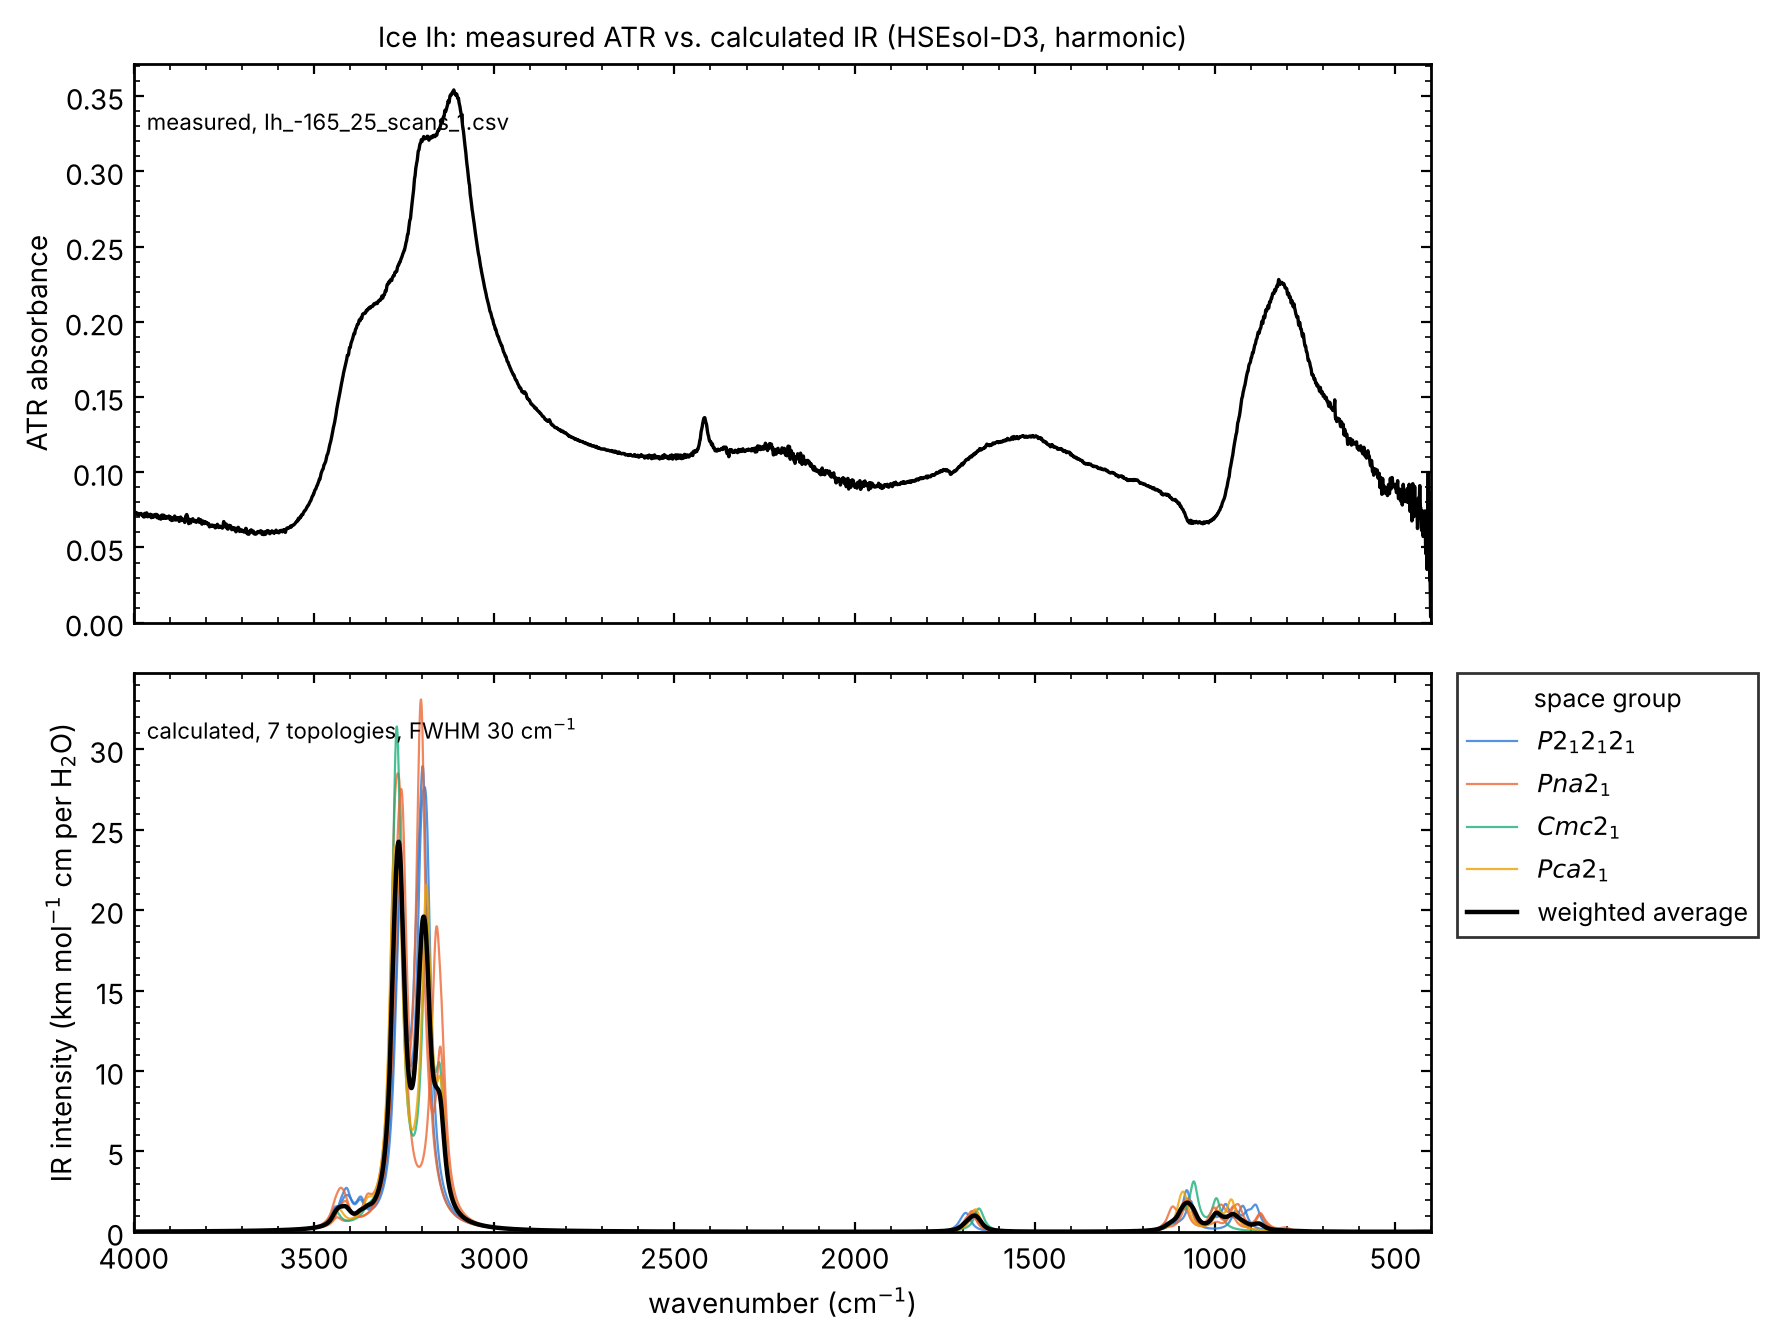
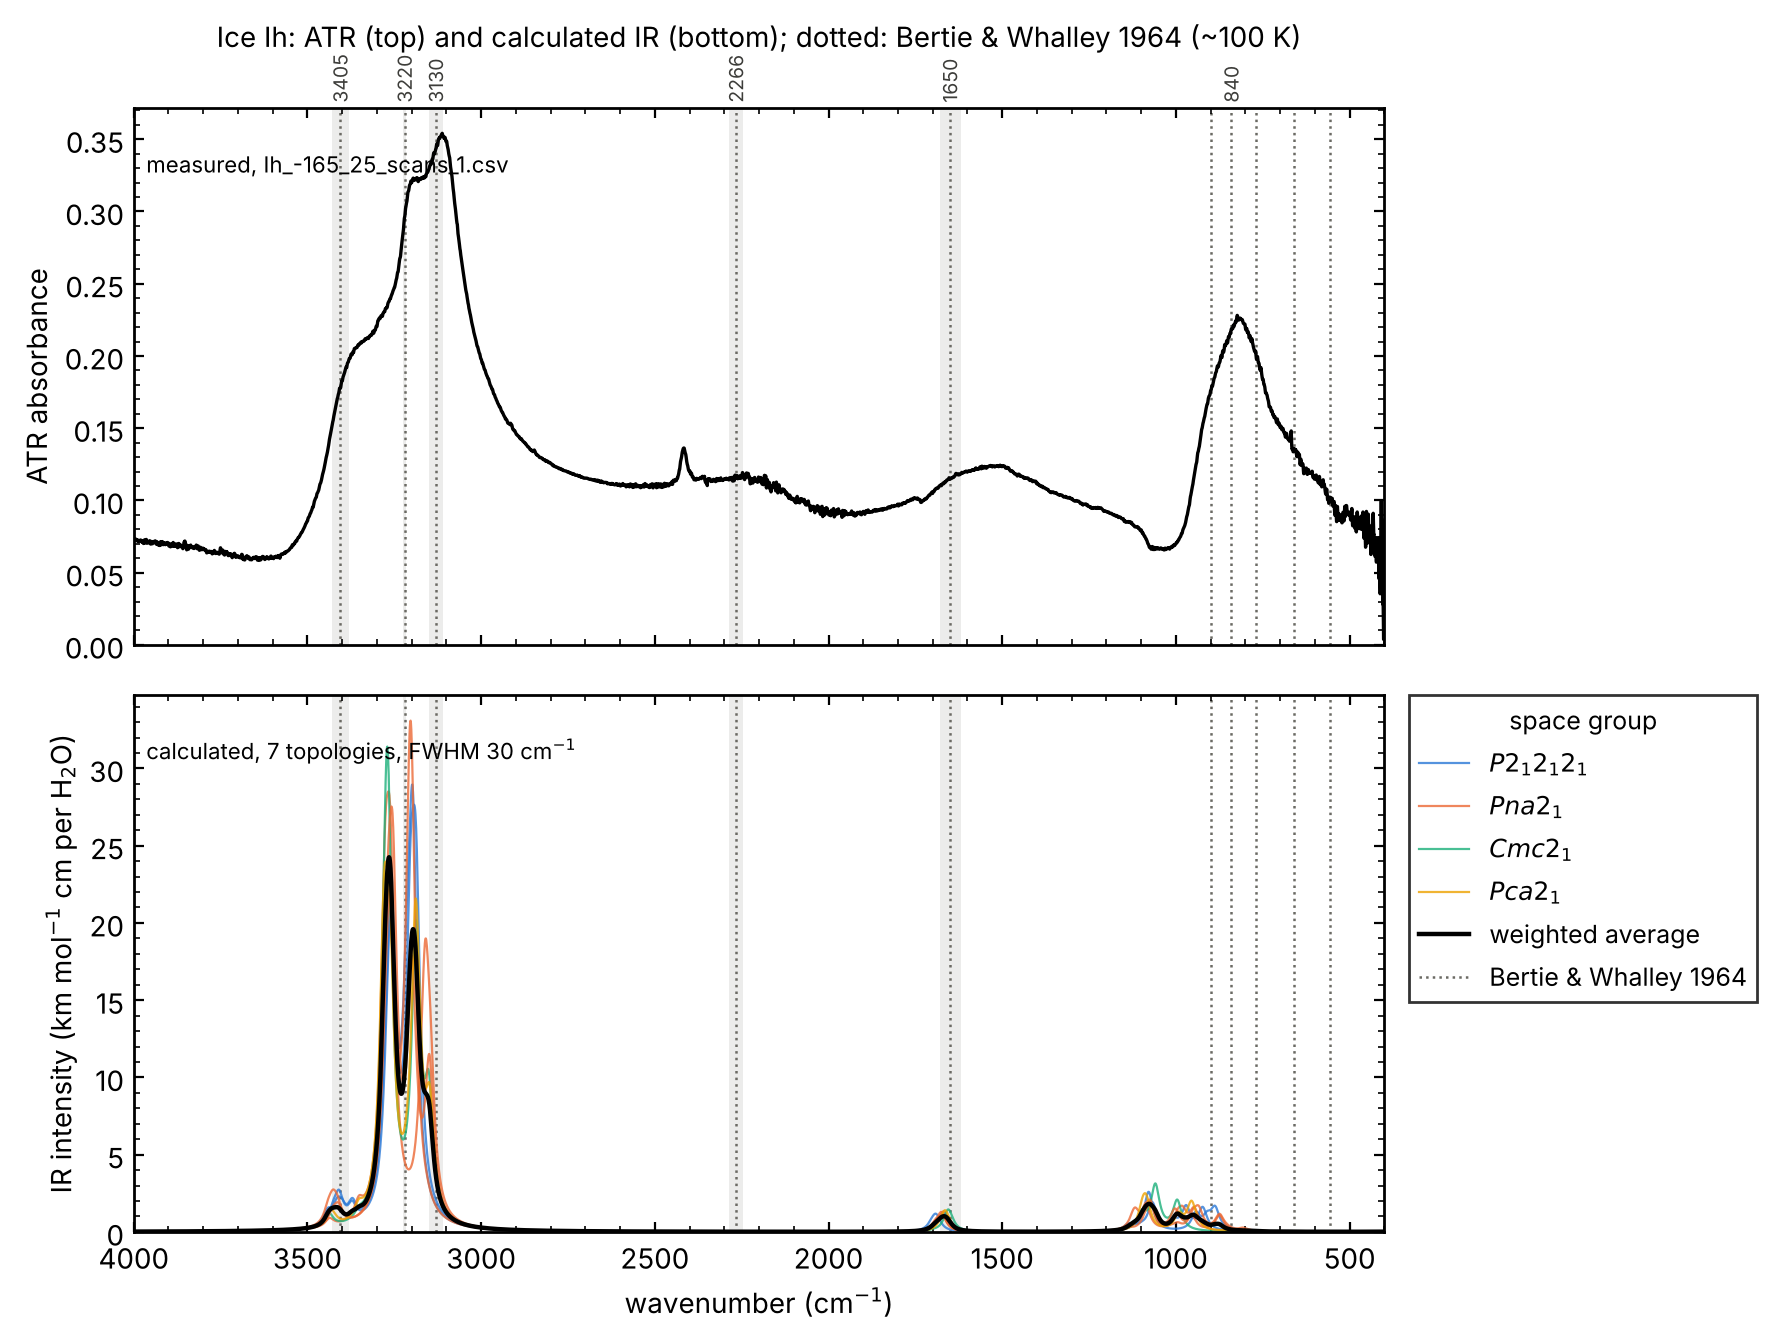
Ice Ih IR: compare calculated spectra with Bertie & Whalley (1964)
Add the Table I band list of Bertie & Whalley (H2O ice Ih, ~100 K) as a
reference file; analyze_spectra.py gains --ref, marks the reference bands
in the plot and writes comparison_reference.csv.

Claude-Session: https://claude.ai/code/session_01QbcnTQUCxwPyhZ4gjeExDE

diff --git a/graph_enumeration/analyze_spectra.py b/graph_enumeration/analyze_spectra.py
@@ -86,6 +86,49 @@ def read_atr(path):
     return x[o], y[o]
 
 
+def read_ref(path):
+    rows = []
+    for line in open(path):
+        if line.startswith("#") or line.startswith("wavenumber") or not line.strip():
+            continue
+        w, lo, hi, inten, assign, label = [x.strip() for x in line.split(",", 5)]
+        rows.append({"wavenumber": float(w), "low": float(lo), "high": float(hi),
+                     "intensity": inten, "assignment": assign, "label": label})
+    return rows
+
+
+def compare_ref(summ, done, grid, avg, ref, a, path):
+    """Nearest calculated feature for every reference band (weighted average spectrum)."""
+    def local_maxima(y, lo, hi):
+        s = (grid >= lo) & (grid <= hi)
+        xs, ys = grid[s], y[s]
+        if len(ys) < 3 or ys.max() <= 0:
+            return []
+        return [(xs[i], ys[i] / ys.max()) for i in range(1, len(ys) - 1)
+                if ys[i] > ys[i - 1] and ys[i] >= ys[i + 1] and ys[i] > 0.03 * ys.max()]
+    regions = [(2900, 3700), (2000, 2500), (1500, 1800), (400, 1300)]
+    print(f"\n  comparison with {a.ref_name} (calculated: weighted average, FWHM {a.fwhm:g})")
+    print(f"  {'reference':>22} {'assignment':>18} {'nearest calc. max':>18} {'rel. int.':>9} {'diff':>7}")
+    rows = []
+    for r in ref:
+        reg = next(((lo, hi) for lo, hi in regions if lo <= r["wavenumber"] <= hi), None)
+        mx = local_maxima(avg, *reg) if reg else []
+        if mx:
+            x, rel = min(mx, key=lambda t: abs(t[0] - r["wavenumber"]))
+            d = x - r["wavenumber"]
+        else:
+            x = rel = d = None
+        rows.append({"reference_cm-1": r["wavenumber"], "label": r["label"], "assignment": r["assignment"],
+                     "calc_cm-1": x, "calc_rel_intensity": round(rel, 2) if rel is not None else "",
+                     "diff_cm-1": d})
+        print(f"  {r['label']:>22} {r['assignment']:>18} {('%.0f' % x) if x is not None else 'none':>18} "
+              f"{('%.2f' % rel) if rel is not None else '':>9} {('%+.0f' % d) if d is not None else '':>7}")
+    with open(path, "w", newline="") as fh:
+        w = csv.DictWriter(fh, fieldnames=list(rows[0].keys()))
+        w.writeheader()
+        w.writerows(rows)
+
+
 def main():
     p = argparse.ArgumentParser(description=__doc__, formatter_class=argparse.RawDescriptionHelpFormatter)
     p.add_argument("jobs")
@@ -98,6 +141,9 @@ def main():
     p.add_argument("--xmin", type=float, default=400.0)
     p.add_argument("--xmax", type=float, default=4000.0)
     p.add_argument("--title", default=None)
+    p.add_argument("--ref", help="reference band list (csv: wavenumber,low,high,intensity,assignment,label), "
+                                 "e.g. reference/bertie_whalley_1964_iceIh_H2O.csv")
+    p.add_argument("--ref-name", default="Bertie & Whalley 1964")
     a = p.parse_args()
 
     jobs = list(csv.DictReader(open(os.path.join(a.jobs, "jobs.csv"))))
@@ -175,11 +221,14 @@ def main():
                                ("combination", (2100, 2350)), ("OH_stretch", (2900, 3700))]:
             sel = (x >= lo) & (x <= hi)
             print(f"  ATR {name:12s} maximum at {x[sel][np.argmax(y[sel])]:7.1f} cm-1")
-    plot(done, grid, avg, atr, a, os.path.join(out, "ir_spectra.png"))
+    ref = read_ref(a.ref) if a.ref else None
+    if ref:
+        compare_ref(summ, done, grid, avg, ref, a, os.path.join(out, "comparison_reference.csv"))
+    plot(done, grid, avg, atr, a, os.path.join(out, "ir_spectra.png"), ref)
     print(f"written to {out}/")
 
 
-def plot(done, grid, avg, atr, a, path):
+def plot(done, grid, avg, atr, a, path, ref=None):
     import matplotlib
     matplotlib.use("Agg")
     import matplotlib.pyplot as plt
@@ -194,7 +243,8 @@ def plot(done, grid, avg, atr, a, path):
         sel = (x >= a.xmin) & (x <= a.xmax)
         axes[0].plot(x[sel], y[sel], color="black", linewidth=1.2)
         axes[0].set_ylabel("ATR absorbance")
-        axes[0].set_title(a.title or "Ice Ih: measured ATR vs. calculated IR (HSEsol-D3, harmonic)", fontsize=10)
+        axes[0].set_title(a.title or "Ice Ih: measured ATR vs. calculated IR (HSEsol-D3, harmonic)",
+                          fontsize=10, pad=22 if ref else 6)
         axes[0].text(0.01, 0.92, "measured, " + os.path.basename(a.atr), transform=axes[0].transAxes,
                      fontsize=8, va="top")
     ax = axes[-1]
@@ -216,6 +266,20 @@ def plot(done, grid, avg, atr, a, path):
             transform=ax.transAxes, fontsize=8, va="top")
     ax.legend(title="space group", loc="upper left", bbox_to_anchor=(1.02, 1.0), borderaxespad=0.0,
               frameon=True, edgecolor="black", fancybox=False, fontsize=9, title_fontsize=9)
+    if ref:
+        for axx in axes:
+            for r in ref:
+                if r["high"] > r["low"]:
+                    axx.axvspan(r["low"], r["high"], color="#9a9a94", alpha=0.18, linewidth=0, zorder=0)
+                axx.axvline(r["wavenumber"], color="#6b6a64", linestyle=":", linewidth=0.9, zorder=0)
+        top = axes[0]
+        for r in ref:
+            if r["intensity"].strip() in ("s", "sh s", "vb w"):
+                top.text(r["wavenumber"], 1.01, f"{r['wavenumber']:.0f}", transform=top.get_xaxis_transform(),
+                         rotation=90, ha="center", va="bottom", fontsize=7, color="#3d3d3a")
+        axes[-1].plot([], [], color="#6b6a64", linestyle=":", linewidth=0.9, label=a.ref_name)
+        axes[-1].legend(title="space group", loc="upper left", bbox_to_anchor=(1.02, 1.0), borderaxespad=0.0,
+                        frameon=True, edgecolor="black", fancybox=False, fontsize=9, title_fontsize=9)
     for axx in axes:
         axx.set_xlim(a.xmax, a.xmin)
         axx.minorticks_on()
